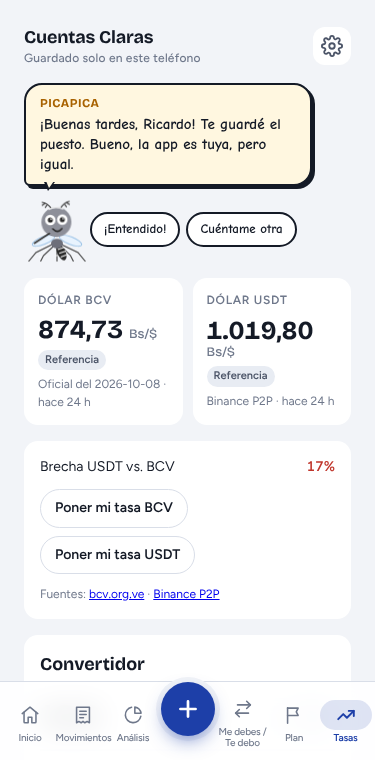
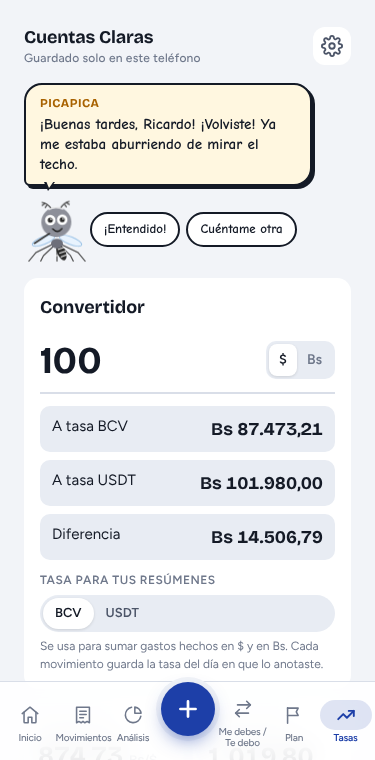
Actualiza la app (v37): el convertidor va primero en Tasas
Claude-Session: https://claude.ai/code/session_016eEKr5AV81AkUUWj8yiqi4

diff --git a/app/index.html b/app/index.html
@@ -1413,6 +1413,14 @@ function viewTasas() {
     ? [[T('A tasa BCV', 'At BCV rate'), money(amt * b.rate, 'VES', 2)], [T('A tasa USDT', 'At USDT rate'), money(amt * u.rate, 'VES', 2)], [T('Diferencia', 'Difference'), money(amt * (u.rate - b.rate), 'VES', 2)]]
     : [[T('A tasa BCV', 'At BCV rate'), money(amt / b.rate, 'USD', 2)], [T('A tasa USDT', 'At USDT rate'), money(amt / u.rate, 'USD', 2)], [T('Diferencia', 'Difference'), money(amt / b.rate - amt / u.rate, 'USD', 2)]];
   return `${petPanel(true)}
+  <section class="card"><h2>${T('Convertidor', 'Converter')}</h2>
+    <div class="amount"><input id="convAmt" inputmode="decimal" value="${esc(CONV.amount)}" aria-label="${T('Monto', 'Amount')}">
+      <span class="curtog"><button data-conv-from="USD" aria-pressed="${CONV.from === 'USD'}">$</button><button data-conv-from="VES" aria-pressed="${CONV.from === 'VES'}">Bs</button></span></div>
+    <div class="conv-out num" id="convOut">${out.map(([k, v]) => `<div><span>${k}</span><b>${v}</b></div>`).join('')}</div>
+    <div class="field"><span class="flabel">${T('Tasa para tus resúmenes', 'Rate for your summaries')}</span>
+      <span class="seg"><button data-cfg="convRate:bcv" aria-pressed="${S.cfg.convRate === 'bcv'}">BCV</button><button data-cfg="convRate:usdt" aria-pressed="${S.cfg.convRate === 'usdt'}">USDT</button></span>
+      <span class="note">${T('Se usa para sumar gastos hechos en $ y en Bs. Cada movimiento guarda la tasa del día en que lo anotaste.', 'Used to add up entries made in $ and Bs. Each entry keeps the rate from the day you logged it.')}</span></div>
+  </section>
   <div class="rates">
     ${card('bcv', b, T('Dólar BCV', 'BCV dollar'), b.date ? T('Oficial del ', 'Official for ') + esc(b.date) : T('Oficial', 'Official'))}
     ${card('usdt', u, 'Dólar USDT', 'Binance P2P')}
@@ -1427,14 +1435,7 @@ function viewTasas() {
       ${S.cfg.manualRates[rateEdit] ? `<button class="linkbtn" id="rateAuto">${T('Volver a la tasa automática', 'Back to the automatic rate')}</button>` : ''}</div>` : ''}
     <p class="note">${T('Fuentes:', 'Sources:')} <a href="https://www.bcv.org.ve/" target="_blank" rel="noopener">bcv.org.ve</a> · <a href="https://p2p.binance.com/" target="_blank" rel="noopener">Binance P2P</a></p>
   </section>
-  <section class="card"><h2>${T('Convertidor', 'Converter')}</h2>
-    <div class="amount"><input id="convAmt" inputmode="decimal" value="${esc(CONV.amount)}" aria-label="${T('Monto', 'Amount')}">
-      <span class="curtog"><button data-conv-from="USD" aria-pressed="${CONV.from === 'USD'}">$</button><button data-conv-from="VES" aria-pressed="${CONV.from === 'VES'}">Bs</button></span></div>
-    <div class="conv-out num" id="convOut">${out.map(([k, v]) => `<div><span>${k}</span><b>${v}</b></div>`).join('')}</div>
-    <div class="field"><span class="flabel">${T('Tasa para tus resúmenes', 'Rate for your summaries')}</span>
-      <span class="seg"><button data-cfg="convRate:bcv" aria-pressed="${S.cfg.convRate === 'bcv'}">BCV</button><button data-cfg="convRate:usdt" aria-pressed="${S.cfg.convRate === 'usdt'}">USDT</button></span>
-      <span class="note">${T('Se usa para sumar gastos hechos en $ y en Bs. Cada movimiento guarda la tasa del día en que lo anotaste.', 'Used to add up entries made in $ and Bs. Each entry keeps the rate from the day you logged it.')}</span></div>
-  </section>`;
+`;
 }
 
 // ---------- Ajustes ----------
@@ -1442,7 +1443,7 @@ function viewTasas() {
 // ---------- Sugerencias (solo versión de prueba) ----------
 // Se envían a un Google Form de Ricardo; él las ve en la hoja de respuestas.
 // Para conectarlo: pega aquí el id del formulario y los entry.N de cada pregunta (salen del enlace prellenado).
-const APP_VER = 'v36';
+const APP_VER = 'v37';
 const SUGG = { form: '', name: '', email: '', text: '', meta: '' };
 const TEST_BUILD = /github\.io$|^localhost$|^127\.0\.0\.1$/.test(location.hostname);
 const suggReady = () => !!(SUGG.form && SUGG.name && SUGG.email && SUGG.text);

diff --git a/app/sw.js b/app/sw.js
@@ -1,6 +1,6 @@
 // Cuentas Claras: guarda la app en el teléfono para que abra rápido y sin conexión.
 // Sube CACHE cada vez que publiques una versión nueva.
-const CACHE = 'cc-v36';
+const CACHE = 'cc-v37';
 const FONTS = 'cc-fonts'; // las letras de Google se guardan aparte y sobreviven a las versiones nuevas
 const PREF = 'cc-pref';   // aquí se recuerda la mascota elegida para el ícono
 const PETS = ['cerdito', 'gato', 'perro', 'guacamaya', 'caiman', 'tigre', 'aguila', 'mosca', 'zancudo'];
